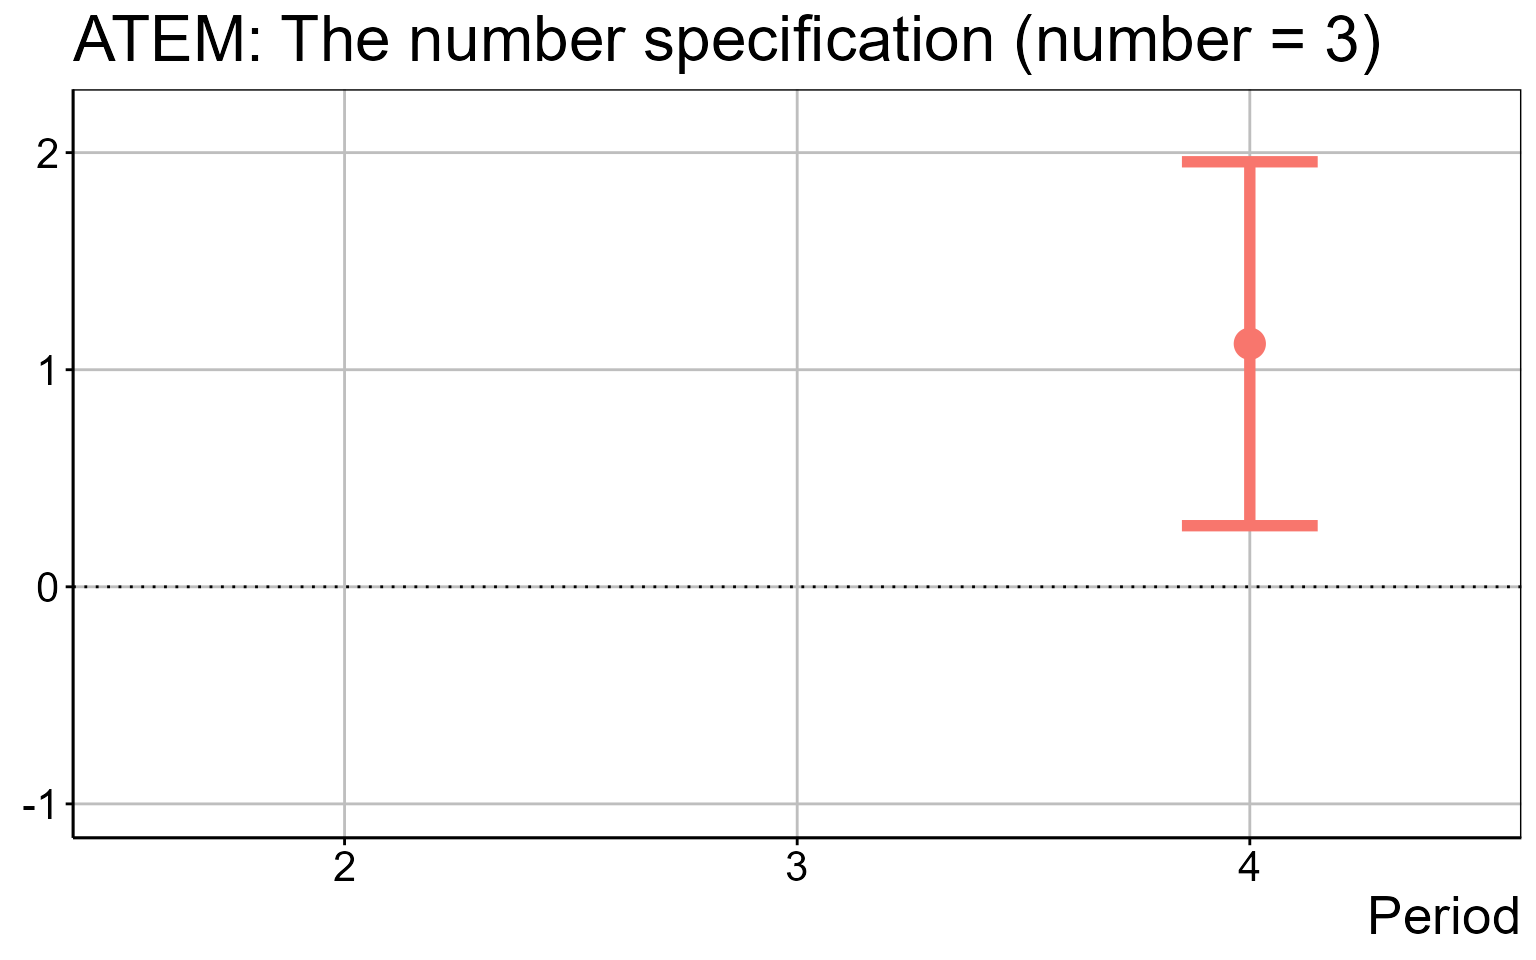
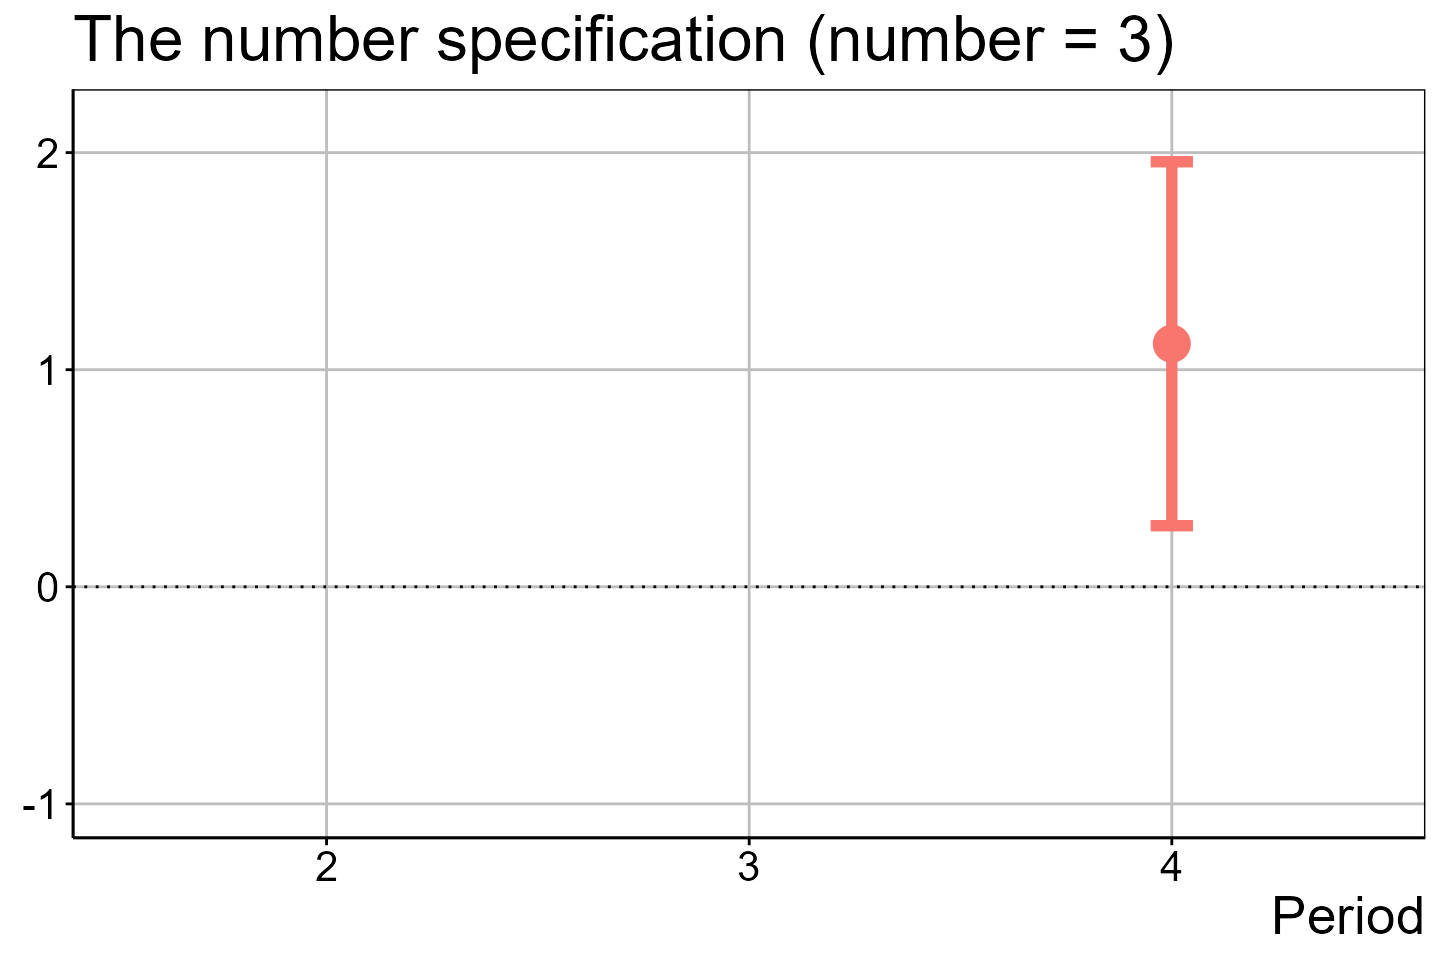
Version 0.1.4: Improve figures

diff --git a/docs/articles/didet.html b/docs/articles/didet.html
@@ -26,7 +26,7 @@
     
     <a class="navbar-brand me-2" href="../index.html">didet</a>
 
-    <small class="nav-text text-muted me-auto" data-bs-toggle="tooltip" data-bs-placement="bottom" title="">0.1.3</small>
+    <small class="nav-text text-muted me-auto" data-bs-toggle="tooltip" data-bs-placement="bottom" title="">0.1.4</small>
 
     
     <button class="navbar-toggler" type="button" data-bs-toggle="collapse" data-bs-target="#navbar" aria-controls="navbar" aria-expanded="false" aria-label="Toggle navigation">
@@ -156,7 +156,8 @@ results for the probabilities of being movers.</li>
 <code>stayer</code>: A data.frame that collects the estimation
 results for the probabilities of being stayers.</li>
 <li>
-<code>figure</code>: A list that contains the figures for <span class="math inline">\(\mathrm{ATEM}(t,s,e)\)</span> and <span class="math inline">\(\mathrm{ATEM}(t, s, r, e)\)</span>.</li>
+<code>figure</code>: A list that contains the ggplot2 figures for
+<span class="math inline">\(\mathrm{ATEM}(t,s,e)\)</span> and <span class="math inline">\(\mathrm{ATEM}(t, s, r, e)\)</span>.</li>
 </ul>
 </div>
 </div>
@@ -224,15 +225,15 @@ approximately 0 under the parallel trends assumption.</p>
 <div class="sourceCode" id="cb5"><pre class="downlit sourceCode r">
 <code class="sourceCode R"><span><span class="co"># Event date = 2</span></span>
 <span><span class="va">did_est</span><span class="op">$</span><span class="va">figure</span><span class="op">$</span><span class="va">e2</span></span></code></pre></div>
-<p><img src="didet_files/figure-html/unnamed-chunk-6-1.png" width="768"></p>
+<p><img src="didet_files/figure-html/unnamed-chunk-6-1.png" width="720"></p>
 <div class="sourceCode" id="cb6"><pre class="downlit sourceCode r">
 <code class="sourceCode R"><span><span class="co"># Event date = 3</span></span>
 <span><span class="va">did_est</span><span class="op">$</span><span class="va">figure</span><span class="op">$</span><span class="va">e3</span></span></code></pre></div>
-<p><img src="didet_files/figure-html/unnamed-chunk-6-2.png" width="768"></p>
+<p><img src="didet_files/figure-html/unnamed-chunk-6-2.png" width="720"></p>
 <div class="sourceCode" id="cb7"><pre class="downlit sourceCode r">
 <code class="sourceCode R"><span><span class="co"># Event date = 4</span></span>
 <span><span class="va">did_est</span><span class="op">$</span><span class="va">figure</span><span class="op">$</span><span class="va">e4</span></span></code></pre></div>
-<p><img src="didet_files/figure-html/unnamed-chunk-6-3.png" width="768"></p>
+<p><img src="didet_files/figure-html/unnamed-chunk-6-3.png" width="720"></p>
 <p>In these figures, the dots and bars correspond to the ATEM estimates
 and <span class="math inline">\(1 - \alpha\)</span> uniform confidence
 bands, with the x-axis indicating the time period <span class="math inline">\(t\)</span>.</p>
@@ -263,7 +264,7 @@ bands, with the x-axis indicating the time period <span class="math inline">\(t\
 <p>The resulting figure is:</p>
 <div class="sourceCode" id="cb10"><pre class="downlit sourceCode r">
 <code class="sourceCode R"><span><span class="va">did_est</span><span class="op">$</span><span class="va">figure</span><span class="op">$</span><span class="va">e1</span></span></code></pre></div>
-<p><img src="didet_files/figure-html/unnamed-chunk-9-1.png" width="768"></p>
+<p><img src="didet_files/figure-html/unnamed-chunk-9-1.png" width="720"></p>
 </div>
 <div class="section level4">
 <h4 id="the-number-specification">The <em>number</em> specification<a class="anchor" aria-label="anchor" href="#the-number-specification"></a>
@@ -295,15 +296,15 @@ bands, with the x-axis indicating the time period <span class="math inline">\(t\
 <div class="sourceCode" id="cb13"><pre class="downlit sourceCode r">
 <code class="sourceCode R"><span><span class="co"># Number of treatment adoptions = 1</span></span>
 <span><span class="va">did_est</span><span class="op">$</span><span class="va">figure</span><span class="op">$</span><span class="va">e1</span></span></code></pre></div>
-<p><img src="didet_files/figure-html/unnamed-chunk-12-1.png" width="768"></p>
+<p><img src="didet_files/figure-html/unnamed-chunk-12-1.png" width="720"></p>
 <div class="sourceCode" id="cb14"><pre class="downlit sourceCode r">
 <code class="sourceCode R"><span><span class="co"># Number of treatment adoptions = 2</span></span>
 <span><span class="va">did_est</span><span class="op">$</span><span class="va">figure</span><span class="op">$</span><span class="va">e2</span></span></code></pre></div>
-<p><img src="didet_files/figure-html/unnamed-chunk-12-2.png" width="768"></p>
+<p><img src="didet_files/figure-html/unnamed-chunk-12-2.png" width="720"></p>
 <div class="sourceCode" id="cb15"><pre class="downlit sourceCode r">
 <code class="sourceCode R"><span><span class="co"># Number of treatment adoptions = 3</span></span>
 <span><span class="va">did_est</span><span class="op">$</span><span class="va">figure</span><span class="op">$</span><span class="va">e3</span></span></code></pre></div>
-<p><img src="didet_files/figure-html/unnamed-chunk-12-3.png" width="768"></p>
+<p><img src="didet_files/figure-html/unnamed-chunk-12-3.png" width="720"></p>
 <p>In the last two figures, the estimation results for <span class="math inline">\(t = 2\)</span> and <span class="math inline">\(t
 \in \{ 2, 3 \}\)</span> are suppressed because no units experienced the
 two and three times of treatment adoptions in these time periods.</p>

diff --git a/docs/authors.html b/docs/authors.html
@@ -10,7 +10,7 @@
     
     <a class="navbar-brand me-2" href="index.html">didet</a>
 
-    <small class="nav-text text-muted me-auto" data-bs-toggle="tooltip" data-bs-placement="bottom" title="">0.1.3</small>
+    <small class="nav-text text-muted me-auto" data-bs-toggle="tooltip" data-bs-placement="bottom" title="">0.1.4</small>
 
     
     <button class="navbar-toggler" type="button" data-bs-toggle="collapse" data-bs-target="#navbar" aria-controls="navbar" aria-expanded="false" aria-label="Toggle navigation">
@@ -61,13 +61,13 @@
 
       <p>Yanagi T (2023).
 <em>didet: An Effective Treatment Approach to Difference-in-Differences with General Treatment Patterns</em>.
-R package version 0.1.3, <a href="https://tkhdyanagi.github.io/didet/">https://tkhdyanagi.github.io/didet/</a>. 
+R package version 0.1.4, <a href="https://tkhdyanagi.github.io/didet/">https://tkhdyanagi.github.io/didet/</a>. 
 </p>
       <pre>@Manual{,
   title = {didet: An Effective Treatment Approach to Difference-in-Differences with General Treatment Patterns},
   author = {Takahide Yanagi},
   year = {2023},
-  note = {R package version 0.1.3},
+  note = {R package version 0.1.4},
   url = {https://tkhdyanagi.github.io/didet/},
 }</pre>
     </div>

diff --git a/docs/news/index.html b/docs/news/index.html
@@ -10,7 +10,7 @@
     
     <a class="navbar-brand me-2" href="../index.html">didet</a>
 
-    <small class="nav-text text-muted me-auto" data-bs-toggle="tooltip" data-bs-placement="bottom" title="">0.1.3</small>
+    <small class="nav-text text-muted me-auto" data-bs-toggle="tooltip" data-bs-placement="bottom" title="">0.1.4</small>
 
     
     <button class="navbar-toggler" type="button" data-bs-toggle="collapse" data-bs-target="#navbar" aria-controls="navbar" aria-expanded="false" aria-label="Toggle navigation">
@@ -47,6 +47,10 @@
       
     </div>
 
+    <div class="section level2">
+<h2 class="pkg-version" data-toc-text="0.1.4" id="didet-014">didet 0.1.4<a class="anchor" aria-label="anchor" href="#didet-014"></a></h2>
+<ul><li>Improved figures</li>
+</ul></div>
     <div class="section level2">
 <h2 class="pkg-version" data-toc-text="0.1.3" id="didet-013">didet 0.1.3<a class="anchor" aria-label="anchor" href="#didet-013"></a></h2>
 <ul><li>Updated vignettes</li>

diff --git a/docs/reference/didet.html b/docs/reference/didet.html
@@ -18,7 +18,7 @@ For more details, see the package vignette with `vignette("didet")` and
     
     <a class="navbar-brand me-2" href="../index.html">didet</a>
 
-    <small class="nav-text text-muted me-auto" data-bs-toggle="tooltip" data-bs-placement="bottom" title="">0.1.3</small>
+    <small class="nav-text text-muted me-auto" data-bs-toggle="tooltip" data-bs-placement="bottom" title="">0.1.4</small>
 
     
     <button class="navbar-toggler" type="button" data-bs-toggle="collapse" data-bs-target="#navbar" aria-controls="navbar" aria-expanded="false" aria-label="Toggle navigation">
@@ -138,7 +138,7 @@ Default is 1000.</p></dd>
 <dd><p>A data.frame that collects results for the probability of stayer</p></dd>
 
 <dt>figure</dt>
-<dd><p>A list that contains the figures for ATEM(t,s,e)</p></dd>
+<dd><p>A list that contains the ggplot2 figures for ATEM(t,s,e)</p></dd>
 
 </dl></div>
     <div class="section level2">

diff --git a/docs/reference/datageneration.html b/docs/reference/datageneration.html
@@ -14,7 +14,7 @@ in Yanagi (2023)."><!-- mathjax --><script src="https://cdnjs.cloudflare.com/aja
     
     <a class="navbar-brand me-2" href="../index.html">didet</a>
 
-    <small class="nav-text text-muted me-auto" data-bs-toggle="tooltip" data-bs-placement="bottom" title="">0.1.3</small>
+    <small class="nav-text text-muted me-auto" data-bs-toggle="tooltip" data-bs-placement="bottom" title="">0.1.4</small>
 
     
     <button class="navbar-toggler" type="button" data-bs-toggle="collapse" data-bs-target="#navbar" aria-controls="navbar" aria-expanded="false" aria-label="Toggle navigation">

diff --git a/docs/404.html b/docs/404.html
@@ -24,7 +24,7 @@
     
     <a class="navbar-brand me-2" href="https://tkhdyanagi.github.io/didet/index.html">didet</a>
 
-    <small class="nav-text text-muted me-auto" data-bs-toggle="tooltip" data-bs-placement="bottom" title="">0.1.3</small>
+    <small class="nav-text text-muted me-auto" data-bs-toggle="tooltip" data-bs-placement="bottom" title="">0.1.4</small>
 
     
     <button class="navbar-toggler" type="button" data-bs-toggle="collapse" data-bs-target="#navbar" aria-controls="navbar" aria-expanded="false" aria-label="Toggle navigation">

diff --git a/docs/articles/index.html b/docs/articles/index.html
@@ -10,7 +10,7 @@
     
     <a class="navbar-brand me-2" href="../index.html">didet</a>
 
-    <small class="nav-text text-muted me-auto" data-bs-toggle="tooltip" data-bs-placement="bottom" title="">0.1.3</small>
+    <small class="nav-text text-muted me-auto" data-bs-toggle="tooltip" data-bs-placement="bottom" title="">0.1.4</small>
 
     
     <button class="navbar-toggler" type="button" data-bs-toggle="collapse" data-bs-target="#navbar" aria-controls="navbar" aria-expanded="false" aria-label="Toggle navigation">

diff --git a/docs/articles/review.html b/docs/articles/review.html
@@ -26,7 +26,7 @@
     
     <a class="navbar-brand me-2" href="../index.html">didet</a>
 
-    <small class="nav-text text-muted me-auto" data-bs-toggle="tooltip" data-bs-placement="bottom" title="">0.1.3</small>
+    <small class="nav-text text-muted me-auto" data-bs-toggle="tooltip" data-bs-placement="bottom" title="">0.1.4</small>
 
     
     <button class="navbar-toggler" type="button" data-bs-toggle="collapse" data-bs-target="#navbar" aria-controls="navbar" aria-expanded="false" aria-label="Toggle navigation">

diff --git a/docs/reference/index.html b/docs/reference/index.html
@@ -10,7 +10,7 @@
     
     <a class="navbar-brand me-2" href="../index.html">didet</a>
 
-    <small class="nav-text text-muted me-auto" data-bs-toggle="tooltip" data-bs-placement="bottom" title="">0.1.3</small>
+    <small class="nav-text text-muted me-auto" data-bs-toggle="tooltip" data-bs-placement="bottom" title="">0.1.4</small>
 
     
     <button class="navbar-toggler" type="button" data-bs-toggle="collapse" data-bs-target="#navbar" aria-controls="navbar" aria-expanded="false" aria-label="Toggle navigation">

diff --git a/docs/LICENSE-text.html b/docs/LICENSE-text.html
@@ -10,7 +10,7 @@
     
     <a class="navbar-brand me-2" href="index.html">didet</a>
 
-    <small class="nav-text text-muted me-auto" data-bs-toggle="tooltip" data-bs-placement="bottom" title="">0.1.3</small>
+    <small class="nav-text text-muted me-auto" data-bs-toggle="tooltip" data-bs-placement="bottom" title="">0.1.4</small>
 
     
     <button class="navbar-toggler" type="button" data-bs-toggle="collapse" data-bs-target="#navbar" aria-controls="navbar" aria-expanded="false" aria-label="Toggle navigation">

diff --git a/docs/LICENSE.html b/docs/LICENSE.html
@@ -10,7 +10,7 @@
     
     <a class="navbar-brand me-2" href="index.html">didet</a>
 
-    <small class="nav-text text-muted me-auto" data-bs-toggle="tooltip" data-bs-placement="bottom" title="">0.1.3</small>
+    <small class="nav-text text-muted me-auto" data-bs-toggle="tooltip" data-bs-placement="bottom" title="">0.1.4</small>
 
     
     <button class="navbar-toggler" type="button" data-bs-toggle="collapse" data-bs-target="#navbar" aria-controls="navbar" aria-expanded="false" aria-label="Toggle navigation">

diff --git a/docs/index.html b/docs/index.html
@@ -34,7 +34,7 @@
     
     <a class="navbar-brand me-2" href="index.html">didet</a>
 
-    <small class="nav-text text-muted me-auto" data-bs-toggle="tooltip" data-bs-placement="bottom" title="">0.1.3</small>
+    <small class="nav-text text-muted me-auto" data-bs-toggle="tooltip" data-bs-placement="bottom" title="">0.1.4</small>
 
     
     <button class="navbar-toggler" type="button" data-bs-toggle="collapse" data-bs-target="#navbar" aria-controls="navbar" aria-expanded="false" aria-label="Toggle navigation">
